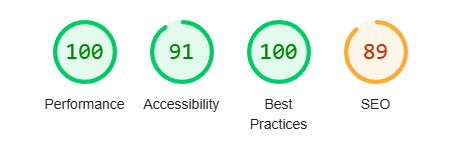
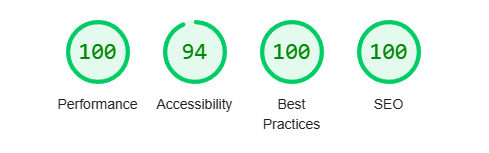
New Lighthouse, add metatags, add comments in js, add documentation, add tooltip

diff --git a/index.html b/index.html
@@ -5,6 +5,10 @@
     <meta charset="UTF-8">
     <meta name="viewport" content="width=device-width, initial-scale=1.0">
 
+    <!-- METATAGS -->
+    <meta name="description" content="Rock Paper Scissors Lizard Spock game.">
+    <meta name="keywords" content="rock, paper, scissors, lizard, spock, game">
+    
     <!-- FAVICON -->
     <link rel="icon" type="image/x-icon" href="assets/images/vulcan-favicon.png">
 
@@ -19,9 +23,7 @@
 <body id="main-container">
     <!-- HEADING -->
     <header class="heading">
-        <h1>
-            Rock Paper Scissors Lizard Spock.
-        </h1>
+        <h1>Rock Paper Scissors Lizard Spock.</h1>
     </header>
     <!-- THE GAME -->
     <main id="the-game">
@@ -36,32 +38,31 @@
             </div>
         </div>
         <!-- RESULTS CONTAINER-->
-        <div id="result">
-        </div>
+        <div id="result"></div>
         <!-- GAME BUTTONS -->
         <div class="choices">
-            <button aria-label="Rock" id="rock-btn">
+            <button aria-label="Rock" title="Rock" id="rock-btn">
                 <i class="fa-solid fa-hand-back-fist"></i><br>
                 Rock
             </button>
-            <button aria-label="Paper" id="paper-btn">
+            <button aria-label="Paper" title="Paper" id="paper-btn">
                 <i class="fa-solid fa-hand"></i><br>
                 Paper
             </button>
-            <button aria-label="Scissors" id="scissors-btn">
+            <button aria-label="Scissors" title="Scissors" id="scissors-btn">
                 <i class="fa-solid fa-hand-scissors"></i><br>
                 Scissors
             </button>
-            <button aria-label="Lizard" id="lizard-btn">
+            <button aria-label="Lizard" title="Lizard" id="lizard-btn">
                 <i class="fa-solid fa-hand-lizard"></i><br>
                 Lizard
             </button>
-            <button aria-label="Spock" id="spock-btn">
+            <button aria-label="Spock" title="Spock" id="spock-btn">
                 <i class="fa-solid fa-hand-spock"></i><br>
                 Spock
             </button>
             <!-- RESET BUTTON -->
-            <button aria-label="Reset" id="rst-btn">
+            <button aria-label="Reset" title="Reset" id="rst-btn">
                 <i class="fa-solid fa-rotate-left"></i><br>
                 Reset
             </button>
@@ -70,9 +71,7 @@
     <!-- RULES DIV -->
     <footer class="rules">
         <div>
-            <h3>
-                Rules
-            </h3>
+            <h2>Rules</h2>
         </div>
         <div class="wrap">
             <div class="left">
@@ -91,17 +90,16 @@
             </div>
         </div>
         <p>
-            <a href="https://www.wikihow.com/Play-Rock-Paper-Scissors-Lizard-Spock"
-                title="Link to more rules of the game, opens in new tab" target="_blank">
-                Link</a> to a more discriptive
-            version av the rules.
+            <a href="https://www.wikihow.com/Play-Rock-Paper-Scissors-Lizard-Spock" 
+            title="Link to more rules of the game, opens in new tab"
+            aria-label="Link to more rules of the game, opens in new tab" target="_blank">
+                Link</a> to a more discriptive version av the rules.
         </p>
     </footer>
 
-<!-- JAVASCRIPT HOOK -->
-<script src="assets/js/script.js"></script>
-<!-- FONT AWESOME HOOK -->
-<script src="https://kit.fontawesome.com/3b20d96fa9.js" crossorigin="anonymous"></script>
+    <!-- JAVASCRIPT HOOK -->
+    <script src="assets/js/script.js"></script>
+    <!-- FONT AWESOME HOOK -->
+    <script src="https://kit.fontawesome.com/3b20d96fa9.js" crossorigin="anonymous"></script>
 </body>
-
 </html>

diff --git a/assets/js/script.js b/assets/js/script.js
@@ -1,24 +1,36 @@
 // SCORES 
 let playerScore = 0;
 let computerScore = 0;
+const choices = ['rock', 'paper', 'scissors', 'lizard', 'spock'];
+// Defines the winning and losing combinations for each hand
+const wins = {
+    rock: ['scissors', 'lizard'],
+    paper: ['rock', 'spock'],
+    scissors: ['paper', 'lizard'],
+    lizard: ['spock', 'paper'],
+    spock: ['rock', 'scissors']
+};
 
 /**
  * Computers randomly generated choice
  */
 function computerChoice() {
-    const choices = ['rock', 'paper', 'scissors', 'lizard', 'spock'];
     return choices[Math.floor(Math.random() * 5)];
 }
 
-// EVENT LISTENERS FOR PLAYERCHOICE BUTTONS
+/**
+ * DOMContentLoaded to make sure everthing is loaded
+ * This forEach loop adds event listeners to each player choice button, so that 
+ * when a button is clicked, playerChoice function is called.
+ */
 document.addEventListener('DOMContentLoaded', function () {
+    // EVENT LISTENERS FOR PLAYERCHOICE BUTTONS
     ['rock', 'paper', 'scissors', 'lizard', 'spock'].forEach(choice => {
         document.getElementById(`${choice}-btn`).addEventListener('click', () => playerChoice(choice));
     });
+    // EVENT LISTENER FOR RESET BUTTON
+    document.getElementById('rst-btn').addEventListener('click', resetGame);
 });
-
-// EVENT LISTENER FOR RESET BUTTON
-document.getElementById('rst-btn').addEventListener('click', resetGame);
 
 /**
  * Get the players choice (choice) and compare
@@ -35,7 +47,10 @@ function playerChoice(choice) {
         computerScore++;
     }
 
-    // SCORE UPDATE
+    /**
+    * Score Update. Writes to result-div.
+    */
+    
     updateScore();
     document.getElementById('result').innerHTML =
         `<h2>
@@ -43,17 +58,6 @@ function playerChoice(choice) {
         Computer chose <span id="emp">${computer}.</span><br>
         <span id="strong">${result}</span></h2>`;
 }
-
-/**
- * Defines the winning and losing combinations for each hand
- */
-const wins = {
-    rock: ['scissors', 'lizard'],
-    paper: ['rock', 'spock'],
-    scissors: ['paper', 'lizard'],
-    lizard: ['spock', 'paper'],
-    spock: ['rock', 'scissors']
-};
 
 /**
  * Determines who wins by using the keys / dict.

diff --git a/assets/css/styles.css b/assets/css/styles.css
@@ -3,6 +3,7 @@
     margin: 0;
     padding: 0;
 }
+
 body {
     font-family: 'Arial', sans-serif;
     display: flex;

diff --git a/README.md b/README.md
@@ -137,7 +137,7 @@ You can fork this repository by using the following steps:
 ## Credits
 
 RULES 
-All of the rules with images and proper descriptions found [HERE](https://www.wikihow.com/Play-Rock-Paper-Scissors-Lizard-Spock)](https://www.wikihow.com/Play-Rock-Paper-Scissors-Lizard-Spock)
+All of the rules with images and proper descriptions found [HERE](https://www.wikihow.com/Play-Rock-Paper-Scissors-Lizard-Spock)
 
 
 I found some info on how to use arrays instead of IF/ELSE. 
@@ -147,6 +147,8 @@ And it made the code so much easier. found [HERE](https://learnersbucket.com/tut
 Favicon was found [HERE](https://www.flaticon.com/free-icon/vulcan-salute_4763373?term=spock&page=1&position=1&origin=tag&related_id=4763373)
 
 More sources I have looked at to understand the process and functions. 
+All three sites have been important to understand how to use functions 
+all in their own right. 
 - https://learnersbucket.com/tutorials/js-projects/rock-paper-scissor-lizard-spock-game-in-javascript/
 
 - https://stackoverflow.com/questions/22623331/rock-paper-scissors-lizard-spock-in-javascript
@@ -171,13 +173,9 @@ JavaScript sources I have used.
 | [Markdown Builder](https://tim.2bn.dev/markdown-builder) | README and TESTING | tool to help generate the Markdown files |
 
 
-### Media
-
-
-
 ### Acknowledgements
 
 - I would like to thank my Code Institute mentor, [Tim Nelson](https://github.com/TravelTimN) for their support throughout the development of this project.
-- I would like to thank my Code Institute mentor, [Luliia Konovalova](https://github.com/IuliiaKonovalova) for their support throughout the development of this project.
+- I would like to thank my Code Institute mentor, [Julia Konovalova](https://github.com/IuliiaKonovalova) for their support throughout the development of this project.
 - I would like to thank the [Code Institute](https://codeinstitute.net) tutor team for their assistance with troubleshooting and debugging some project issues.
 - I would like to thank the [Code Institute Slack community](https://code-institute-room.slack.com) for the moral support; it kept me going during periods of self doubt and imposter syndrome.
